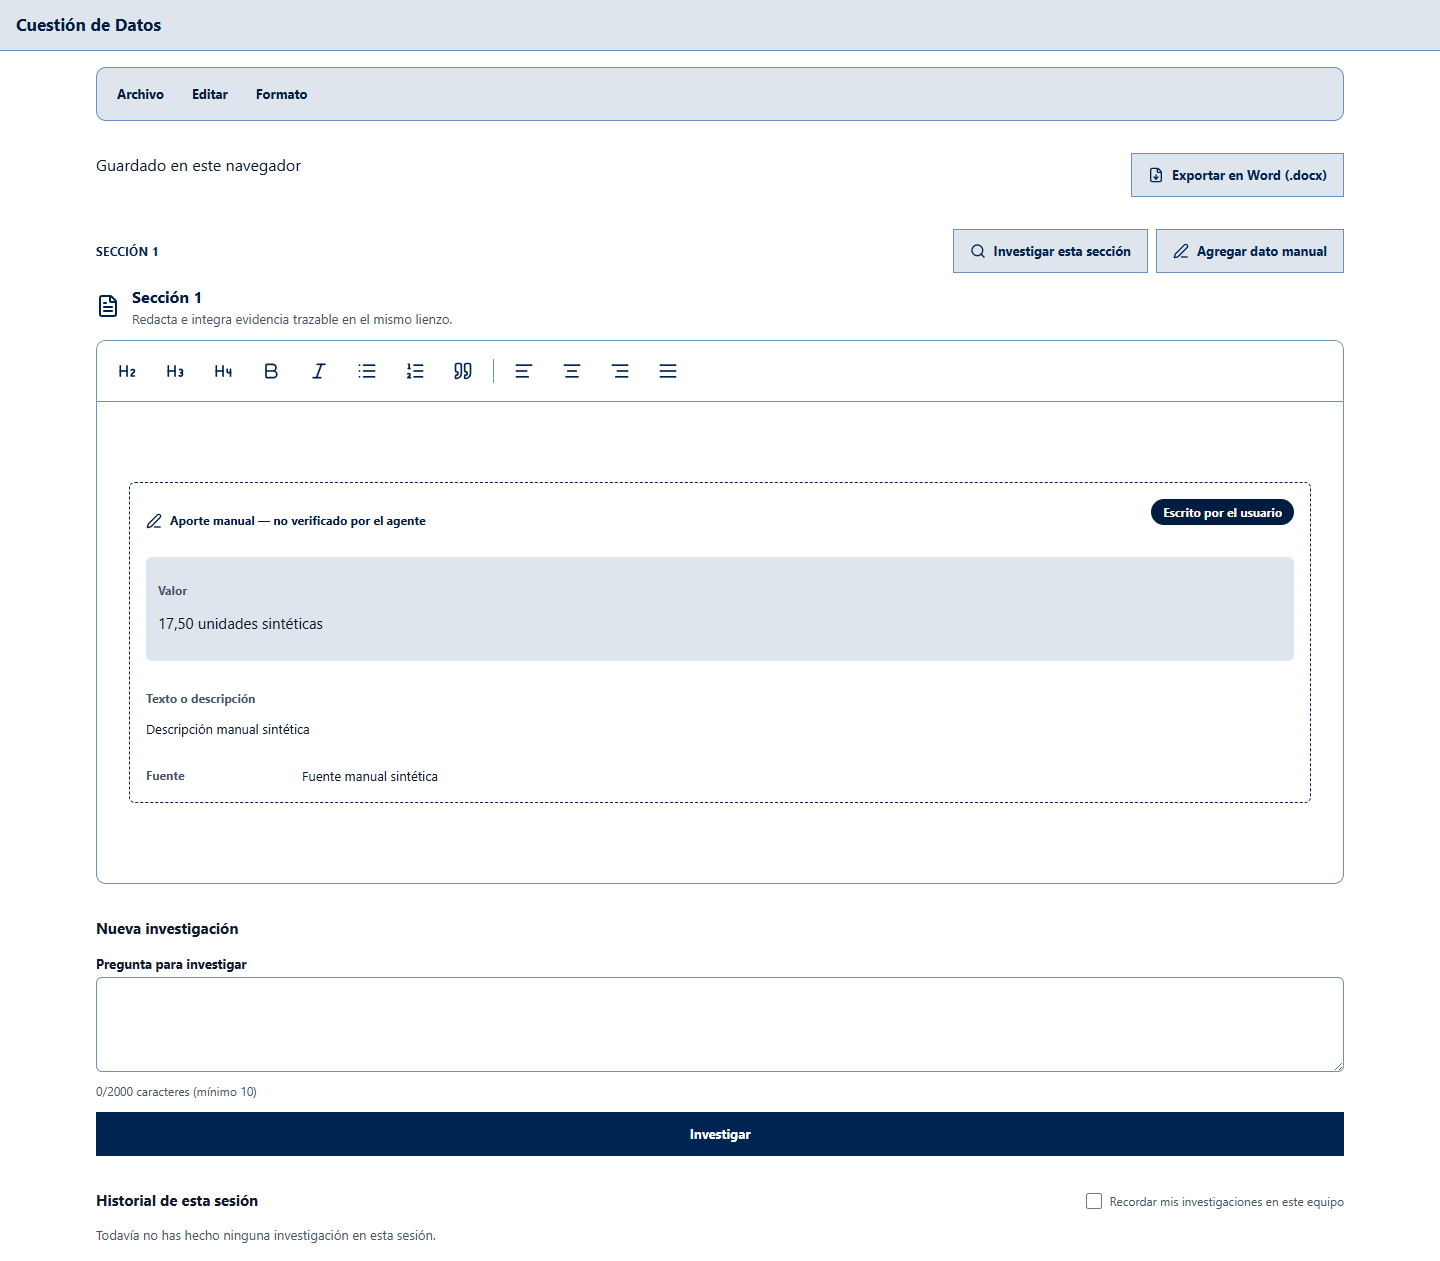
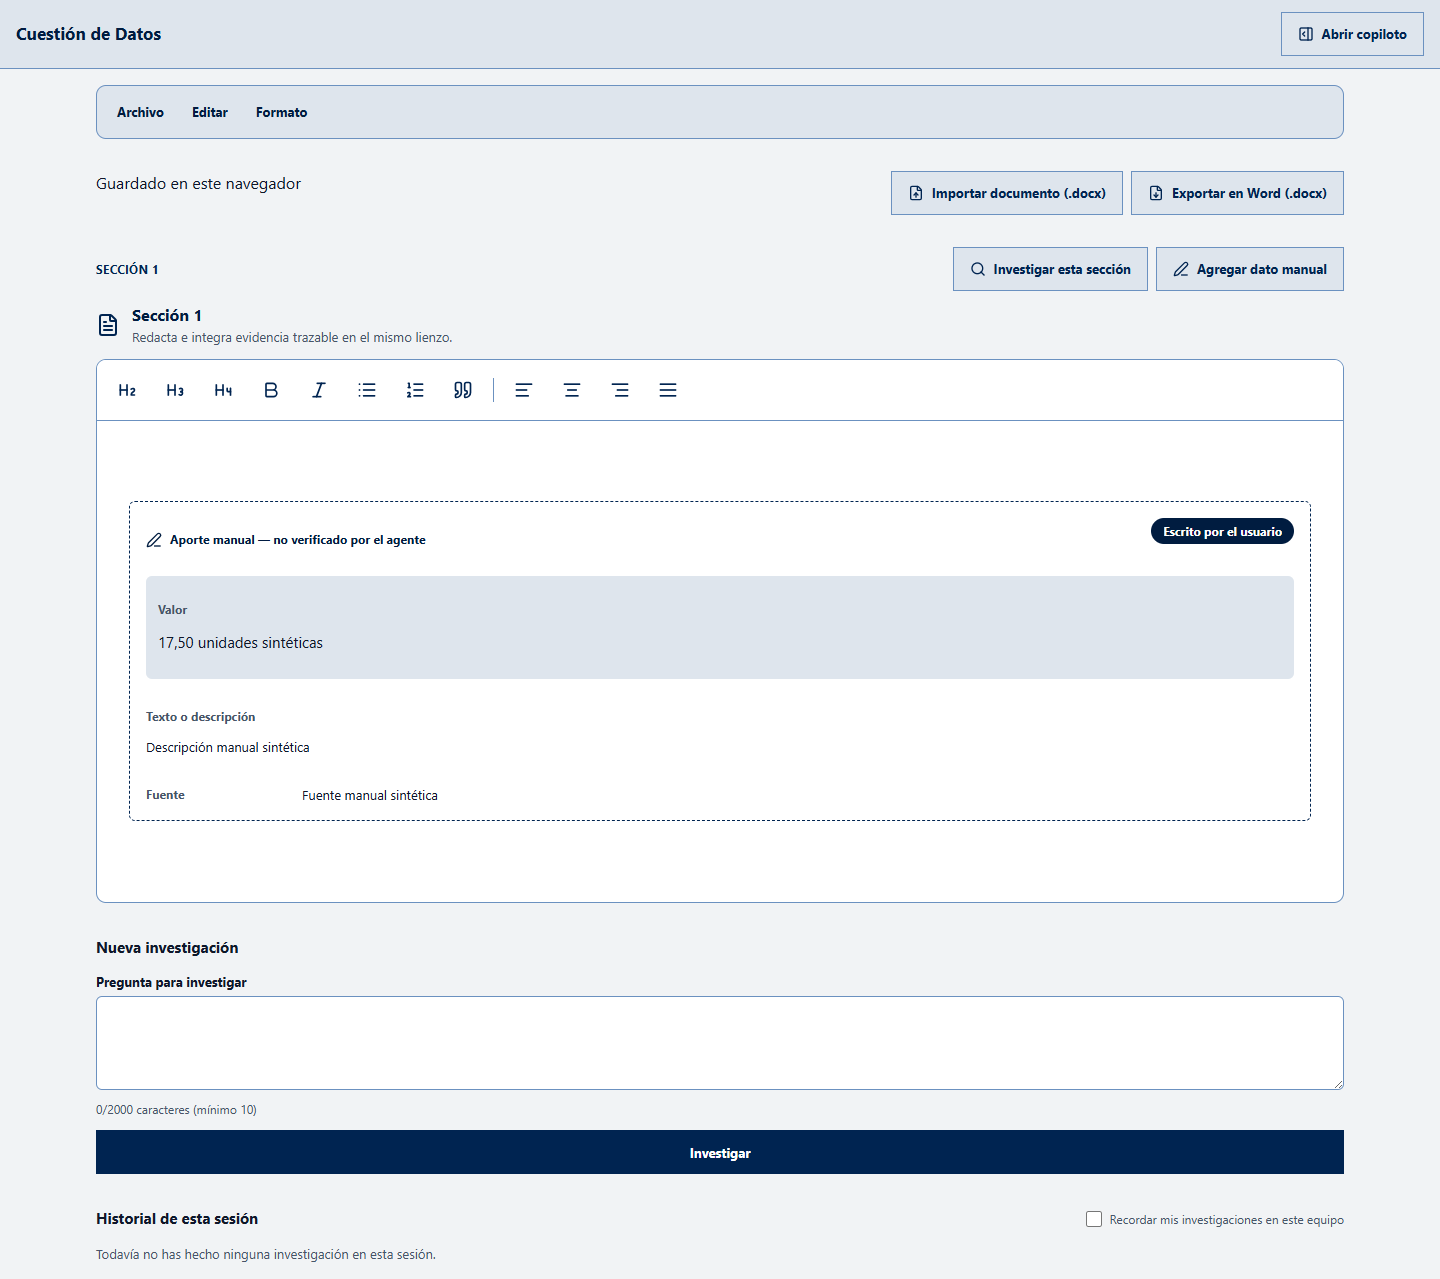
fix(frontend): reabrir el copiloto en Reejecutar/Reanudar y agregar controles faltantes
history.rerun/history.resumeRun llamaban directo a agentRun.start/resume sin
pasar por setCopilotOpen(true) (a diferencia de startInvestigation), asi que
"Reejecutar" y "Reanudar" completaban la corrida en el backend pero el panel
quedaba cerrado sin forma de verla. Se envuelven ambos handlers en pages/app.js.

Ademas, a pedido del usuario tras reportar el bug:
- Boton "Abrir copiloto" en el encabezado, simetrico al cierre existente,
  visible cuando hay documento abierto y el panel esta cerrado.
- Boton standalone "Importar documento (.docx)" junto a "Exportar en Word",
  reutilizando el mismo DocxImportFlow (importFlowRef elevado a app.js igual
  que exportButtonRef) con restauracion de foco dinamica al control real que
  invoco el flujo (importReturnFocusRef), no siempre al menu Archivo.
- Token --cdt-slate-100 (#f1f3f5, mas claro que blue-50 #dee5ed) para el
  fondo de pagina de /app fuera del lienzo y del copiloto, que conservan su
  bg-cdt-white propio.

Verificado: 967/967 unit tests, 83 e2e (incluye 2 nuevos que reproducen el
bug reportado y 1 para el boton standalone de importar), axe WCAG 2.2 AA y
320px sin overflow, build limpio.

diff --git a/frontend/pages/app.js b/frontend/pages/app.js
@@ -1,5 +1,6 @@
 import { useCallback, useEffect, useMemo, useRef, useState } from "react";
 import Head from "next/head";
+import { FileUp, PanelRightOpen } from "lucide-react";
 import { resolveBackendUrl } from "../lib/config/backendUrl";
 import { useAgentRun } from "../hooks/useAgentRun";
 import { useConsent } from "../hooks/useConsent";
@@ -16,6 +17,7 @@ import {
 import { ConsentDialog } from "../components/consent";
 import { HistoryList } from "../components/history";
 import { LiveRegion } from "../components/ui/LiveRegion";
+import { Button } from "../components/ui/Button";
 import {
   DocumentSections,
   DocumentPersistenceStatus,
@@ -196,6 +198,15 @@ export default function AppPage() {
   const [documentFeedback, setDocumentFeedback] = useState("");
   const documentSectionsRef = useRef(null);
   const exportButtonRef = useRef(null);
+  const importFlowRef = useRef(null);
+  // Destino explícito de restauración de foco al cerrar `DocxImportFlow`
+  // (ver `Modal.jsx`, prop `returnFocusRef`): hay DOS controles que pueden
+  // abrir el mismo flujo (el ítem "Importar documento (.docx)" del menú
+  // Archivo y el botón standalone junto a "Exportar en Word"), así que cada
+  // uno fija aquí, justo antes de invocar `selectFile()`, cuál de los dos
+  // debe recibir el foco de vuelta — nunca un valor fijo de antemano.
+  const importReturnFocusRef = useRef(null);
+  const importButtonRef = useRef(null);
   const prefillNonceRef = useRef(0);
 
   // Ver `DocumentMenuBar.jsx`: el menú Archivo/Editar/Formato lee
@@ -321,6 +332,27 @@ export default function AppPage() {
     history.resumeRun(agentRun.state.runId);
   }, [agentRun.state.runId, history]);
 
+  // `history.rerun`/`history.resumeRun` (a diferencia de `startInvestigation`)
+  // no abren el copiloto: llaman a `agentRun.start`/`agentRun.resume`
+  // directamente, sin pasar por este componente. Sin este envoltorio, "Reejecutar"
+  // y "Reanudar" disparaban una corrida real (el backend la terminaba) sin que
+  // hubiera ninguna forma de ver el resultado, porque el panel seguía cerrado.
+  const handleRerun = useCallback(
+    (runId) => {
+      setCopilotOpen(true);
+      history.rerun(runId);
+    },
+    [history]
+  );
+
+  const handleResumeRun = useCallback(
+    (runId) => {
+      setCopilotOpen(true);
+      return history.resumeRun(runId);
+    },
+    [history]
+  );
+
   const handleReformulate = useCallback(() => {
     setCopilotOpen(false);
   }, []);
@@ -390,7 +422,7 @@ export default function AppPage() {
   }, [documentFeedback]);
 
   return (
-    <div className="cdt-v2 flex min-h-screen flex-col bg-cdt-white">
+    <div className="cdt-v2 flex min-h-screen flex-col bg-cdt-slate-100">
       <Head>
         <title>Cuestión de Datos — Investigación</title>
       </Head>
@@ -402,8 +434,20 @@ export default function AppPage() {
         Saltar al contenido
       </a>
 
-      <header className="border-b border-cdt-blue-100 bg-cdt-blue-50 px-cdt-4 py-cdt-3">
+      <header className="flex items-center justify-between gap-cdt-3 border-b border-cdt-blue-100 bg-cdt-blue-50 px-cdt-4 py-cdt-3">
         <h1 className="text-cdt-lg font-cdt-bold text-cdt-blue-900">Cuestión de Datos</h1>
+        {/* Control simétrico al botón de cierre de `CopilotPanel` (que en
+            escritorio no renderiza nada cuando `open` es `false` — no hay
+            ningún separador ni botón dentro del que agarrarse): sin esto,
+            cerrar el panel mientras una investigación queda corriendo o
+            terminada (p. ej. tras "Reejecutar") no dejaba ninguna forma de
+            volver a verla salvo recargar la página. */}
+        {documentModel !== null && !copilotOpen ? (
+          <Button type="button" variant="secondary" onClick={() => setCopilotOpen(true)}>
+            <PanelRightOpen className="h-4 w-4" aria-hidden="true" focusable="false" />
+            Abrir copiloto
+          </Button>
+        ) : null}
       </header>
 
       <LiveRegion message={liveRegionMessage} />
@@ -451,6 +495,8 @@ export default function AppPage() {
                 documentSectionsRef={documentSectionsRef}
                 editorActivityTick={editorActivityTick}
                 exportButtonRef={exportButtonRef}
+                importFlowRef={importFlowRef}
+                importReturnFocusRef={importReturnFocusRef}
                 onCreateDocument={handleCreateDocument}
                 onImportDocument={handleImportDocument}
                 onCloseDocument={handleCloseDocument}
@@ -467,7 +513,21 @@ export default function AppPage() {
                 currentDocument={documentModel}
                 onDismissNotice={autosave.dismissNotice}
               />
-              <ExportDocumentButton ref={exportButtonRef} documentModel={documentModel} />
+              <div className="flex flex-wrap gap-cdt-2">
+                <Button
+                  ref={importButtonRef}
+                  type="button"
+                  variant="secondary"
+                  onClick={() => {
+                    importReturnFocusRef.current = importButtonRef.current;
+                    importFlowRef.current?.selectFile();
+                  }}
+                >
+                  <FileUp className="h-4 w-4" aria-hidden="true" focusable="false" />
+                  Importar documento (.docx)
+                </Button>
+                <ExportDocumentButton ref={exportButtonRef} documentModel={documentModel} />
+              </div>
             </div>
 
             <DocumentSections
@@ -510,10 +570,10 @@ export default function AppPage() {
               </div>
               <HistoryList
                 runs={history.runs}
-                onRerun={history.rerun}
+                onRerun={handleRerun}
                 onRefine={handleRefine}
                 onDelete={handleDeleteRun}
-                onResume={history.resumeRun}
+                onResume={handleResumeRun}
                 isDeletingRun={history.isDeletingRun}
               />
             </section>

diff --git a/frontend/tests/e2e/app-f3-7b.spec.js b/frontend/tests/e2e/app-f3-7b.spec.js
@@ -190,6 +190,52 @@ test.describe("/app — historial (RF-502)", () => {
     await expect.poll(() => postCalls.length).toBe(2);
   });
 
+  test("Reejecutar reabre el panel del copiloto aunque el usuario lo haya cerrado antes", async ({ page }) => {
+    // Regresión: `history.rerun` dispara una corrida real (el backend la
+    // termina) pero antes no pasaba por `setCopilotOpen(true)` — el panel
+    // quedaba cerrado sin ninguna forma de ver el resultado salvo recargar.
+    await mockBackend(page);
+    await page.goto(APP_URL);
+    await createFreeDocumentViaPicker(page); // RF-101-02-R1: storage vacío, sin addInitScript
+
+    await submitQuestion(page, "¿Cuál es la cobertura educativa en Antioquia?");
+    await page.getByRole("dialog").getByRole("button", { name: "Aceptar e investigar" }).click();
+    const copilot = page.getByRole("complementary", { name: "Investigación en curso" });
+    await expect(copilot).toBeVisible({ timeout: 10000 });
+
+    await copilot.getByRole("button", { name: "Cerrar copiloto" }).click();
+    await expect(copilot).not.toBeVisible();
+
+    await main(page).getByRole("button", { name: "Reejecutar" }).click();
+    await expect(copilot).toBeVisible();
+  });
+
+  test("el botón 'Abrir copiloto' del encabezado reabre el panel manualmente", async ({ page }) => {
+    await mockBackend(page);
+    await page.goto(APP_URL);
+    await createFreeDocumentViaPicker(page); // RF-101-02-R1: storage vacío, sin addInitScript
+
+    // Con un documento abierto y el copiloto todavía cerrado (no se ha hecho
+    // ninguna investigación), el control ya está disponible: no depende de
+    // que exista una corrida para ofrecer la forma de abrir el panel.
+    const openButtonBeforeAnyRun = page.getByRole("button", { name: "Abrir copiloto" });
+    await expect(openButtonBeforeAnyRun).toBeVisible();
+
+    await submitQuestion(page, "¿Cuál es la cobertura educativa en Antioquia?");
+    await page.getByRole("dialog").getByRole("button", { name: "Aceptar e investigar" }).click();
+    const copilot = page.getByRole("complementary", { name: "Investigación en curso" });
+    await expect(copilot).toBeVisible({ timeout: 10000 });
+
+    await copilot.getByRole("button", { name: "Cerrar copiloto" }).click();
+    await expect(copilot).not.toBeVisible();
+
+    const openButton = page.getByRole("button", { name: "Abrir copiloto" });
+    await expect(openButton).toBeVisible();
+    await openButton.click();
+    await expect(copilot).toBeVisible();
+    await expect(openButton).not.toBeVisible();
+  });
+
   test("Refinar precarga la pregunta en el composer para editar antes de enviar", async ({ page }) => {
     await mockBackend(page);
     await page.goto(APP_URL);

diff --git a/frontend/components/document/DocumentMenuBar.jsx b/frontend/components/document/DocumentMenuBar.jsx
@@ -69,13 +69,14 @@ export function DocumentMenuBar({
   documentSectionsRef,
   editorActivityTick,
   exportButtonRef,
+  importFlowRef,
+  importReturnFocusRef,
   onCreateDocument,
   onImportDocument,
   onCloseDocument,
   onFeedback,
 }) {
   const [pendingTemplateId, setPendingTemplateId] = useState(null);
-  const importFlowRef = useRef(null);
   const fileMenuTriggerRef = useRef(null);
 
   const activeEditor = documentSectionsRef.current?.getActiveEditor() ?? null;
@@ -127,7 +128,19 @@ export function DocumentMenuBar({
               </MenuItem>
             ))}
           </MenuGroup>
-          <MenuItem icon={FileUp} onSelect={() => importFlowRef.current?.selectFile()}>
+          <MenuItem
+            icon={FileUp}
+            onSelect={() => {
+              // Ver comentario junto a `<DocxImportFlow returnFocusRef>` más
+              // abajo: sin fijar el destino explícito ANTES de abrir el
+              // selector nativo de archivos, el foco se restauraría a
+              // cualquier cosa que `document.activeElement` sea cuando el
+              // modal de resumen finalmente se monte — y para entonces el
+              // selector nativo de archivos ya movió el foco varias veces.
+              if (importReturnFocusRef) importReturnFocusRef.current = fileMenuTriggerRef.current;
+              importFlowRef.current?.selectFile();
+            }}
+          >
             Importar documento (.docx)
           </MenuItem>
           <MenuDivider />
@@ -229,7 +242,7 @@ export function DocumentMenuBar({
         currentDocument={documentModel}
         onImport={onImportDocument}
         onFeedback={onFeedback}
-        returnFocusRef={fileMenuTriggerRef}
+        returnFocusRef={importReturnFocusRef}
       />
 
       <Modal

diff --git a/frontend/tests/e2e/app-docx-import.spec.js b/frontend/tests/e2e/app-docx-import.spec.js
@@ -155,4 +155,33 @@ test.describe("/app — DOCX-IMPORT-01 local y controlado", () => {
     await expect(page.getByRole("menuitem", { name: "Archivo" })).toBeFocused();
     await expect(editor).toContainText("Contenido que debe permanecer");
   });
+
+  test("el botón standalone 'Importar documento (.docx)' abre el mismo flujo y devuelve el foco a sí mismo", async ({
+    page,
+  }) => {
+    // El botón junto a "Exportar en Word (.docx)" (para que ese control no
+    // quede huérfano) reutiliza el mismo `DocxImportFlow` que el ítem del
+    // menú Archivo — nunca un segundo flujo. Al cerrar, el foco debe volver
+    // a ESTE botón, no al disparador del menú Archivo (esa es la razón de
+    // `importReturnFocusRef` en `pages/app.js`).
+    await page.goto(APP_URL);
+    await createFreeDocumentViaPicker(page);
+
+    const importButton = page.getByRole("button", { name: "Importar documento (.docx)" });
+    const chooserPromise = page.waitForEvent("filechooser");
+    await importButton.click();
+    const chooser = await chooserPromise;
+    await page.waitForTimeout(300);
+    await chooser.setFiles({
+      name: "corrupto.docx",
+      mimeType: DOCX_MIME,
+      buffer: Buffer.from([0x50, 0x4b, 0x03, 0x04, 1, 2, 3, 4]),
+    });
+
+    const errorDialog = page.getByRole("dialog", { name: "No se pudo importar el documento" });
+    await expect(errorDialog).toBeVisible({ timeout: 20_000 });
+    await page.keyboard.press("Escape");
+    await expect(errorDialog).toBeHidden();
+    await expect(importButton).toBeFocused();
+  });
 });

diff --git a/frontend/tests/unit/ui/contrast.test.js b/frontend/tests/unit/ui/contrast.test.js
@@ -16,6 +16,7 @@ const TOKENS = {
   "slate-900": "#0f172a",
   "slate-600": "#475569",
   "slate-400": "#94a3b8",
+  "slate-100": "#f1f3f5",
   success: "#15803d",
   warning: "#b45309",
   error: "#b91c1c",
@@ -65,6 +66,8 @@ const USED_PAIRS = [
   ["white", "error"], // Badge fallido, Button destructiva
   ["blue-900", "blue-50"], // Badge no_evidence (tratamiento neutral)
   ["slate-600", "blue-50"], // Texto secundario sobre fondo de sección
+  ["slate-900", "slate-100"], // Encabezados de /app sobre el fondo de página (pages/app.js)
+  ["slate-600", "slate-100"], // Etiqueta "Recordar mis investigaciones..." sobre el fondo de página
 ];
 
 describe("contraste WCAG 2.2 AA — parejas texto/fondo reales", () => {

diff --git a/frontend/styles/tokens.css b/frontend/styles/tokens.css
@@ -41,6 +41,13 @@
   --cdt-slate-900: #0f172a;
   --cdt-slate-600: #475569;
   --cdt-slate-400: #94a3b8;
+  /* Gris frío neutro para el fondo de página (constitution.md Art. V.1
+   * permite explícitamente "grises fríos" además del blanco puro, no solo
+   * blue-50): separa visualmente la zona que NO es lienzo central ni panel
+   * del copiloto — ambos siguen fijando su propio `bg-cdt-white` explícito,
+   * así que este tono nunca los reemplaza ni los oculta, solo diferencia el
+   * "fondo de fondo" que los rodea (`/app`, ver `pages/app.js`). */
+  --cdt-slate-100: #f1f3f5;
   --cdt-success: #15803d;
   --cdt-warning: #b45309;
   --cdt-error: #b91c1c;

diff --git a/frontend/tailwind.config.js b/frontend/tailwind.config.js
@@ -23,6 +23,7 @@ module.exports = {
         "cdt-slate-900": "var(--cdt-slate-900)",
         "cdt-slate-600": "var(--cdt-slate-600)",
         "cdt-slate-400": "var(--cdt-slate-400)",
+        "cdt-slate-100": "var(--cdt-slate-100)",
         "cdt-success": "var(--cdt-success)",
         "cdt-warning": "var(--cdt-warning)",
         "cdt-error": "var(--cdt-error)",

diff --git a/frontend/tests/unit/ui/tokens.test.js b/frontend/tests/unit/ui/tokens.test.js
@@ -25,6 +25,7 @@ const EXPECTED_TOKENS = {
   "--cdt-slate-900": "#0f172a",
   "--cdt-slate-600": "#475569",
   "--cdt-slate-400": "#94a3b8",
+  "--cdt-slate-100": "#f1f3f5",
   "--cdt-success": "#15803d",
   "--cdt-warning": "#b45309",
   "--cdt-error": "#b91c1c",
